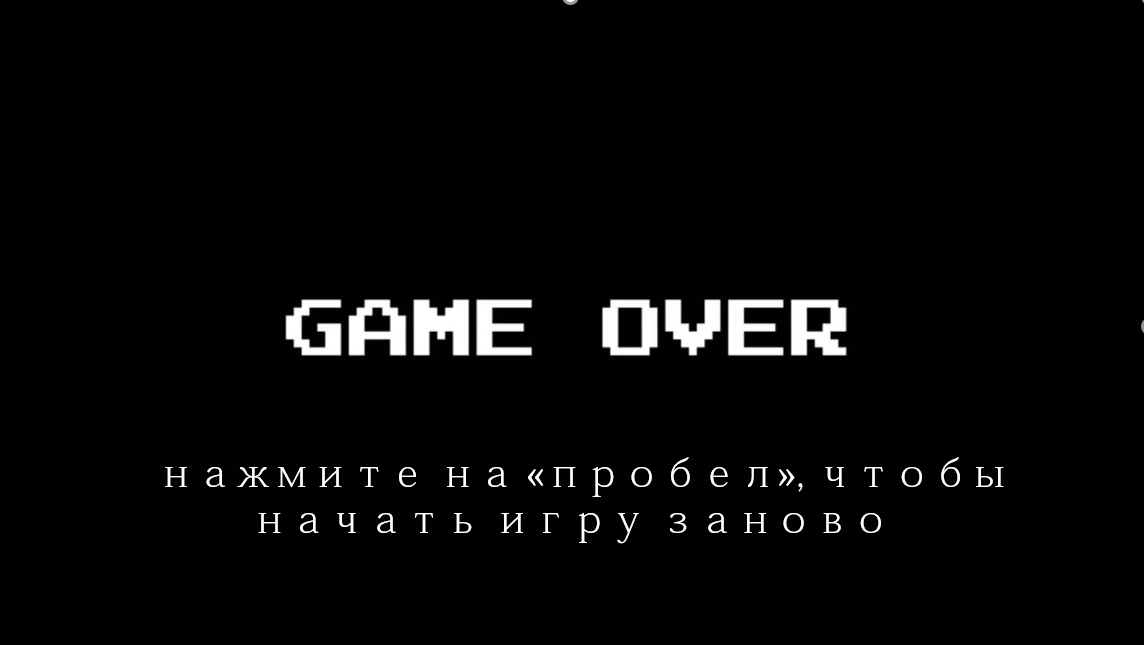
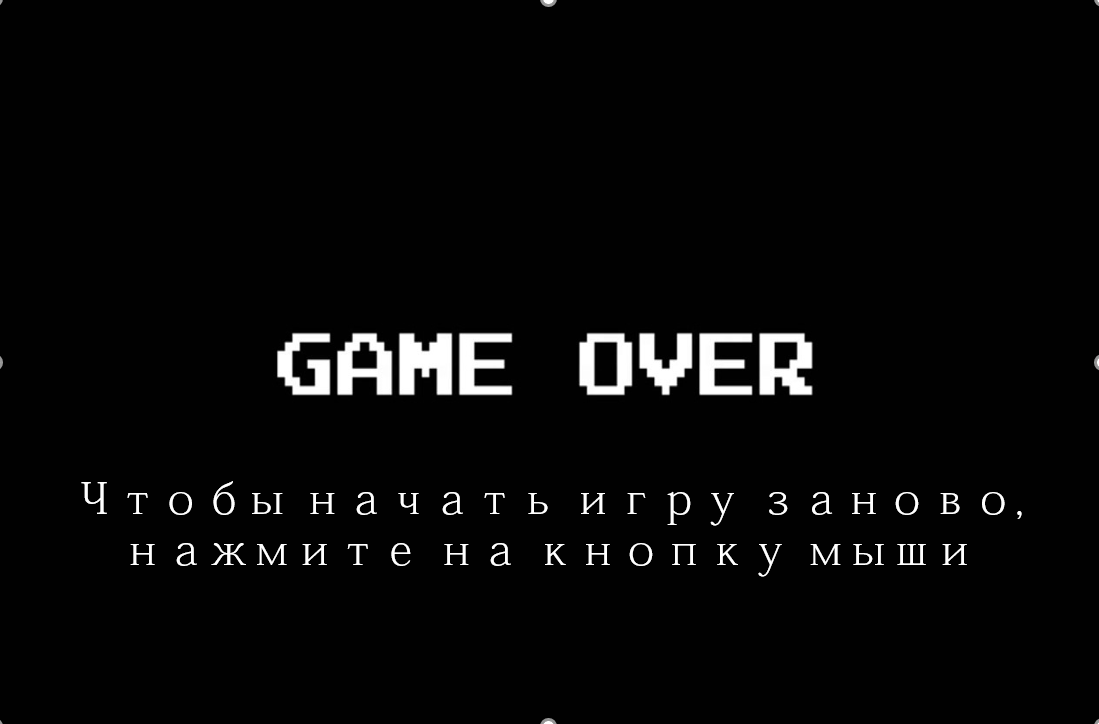
door

diff --git a/main.py b/main.py
@@ -4,21 +4,14 @@ import pygame
 import os
 import random
 
-from PyQt5.QtWidgets import QApplication, QPushButton, QMainWindow, \
-     QInputDialog, QLabel, QMessageBox
-from PyQt5 import QtGui  # для измениения шрифта
-from PyQt5.QtGui import QPixmap
-from PyQt5.QtWidgets import QPushButton, QApplication, QWidget, QInputDialog, QLabel
-from PyQt5 import QtGui
-from PyQt5.QtGui import QPixmap, QBrush, QPalette, QMovie, QPainter
 st = 0
 d = ['en.png', 'enn.png', 'ennn.png']
 pygame.init()
 pygame.key.set_repeat(200, 70)
 
 FPS = 50
-WIDTH = 800
-HEIGHT = 800
+WIDTH = 900
+HEIGHT = 900
 STEP = 10
 
 screen = pygame.display.set_mode((WIDTH, HEIGHT))
@@ -46,8 +39,6 @@ def load_image(name, color_key=None):
     else:
         image = image.convert_alpha()
     return image
-
-
 
 
 def over_game():
@@ -97,6 +88,8 @@ def generate_level(level):
                 Tile('star', x, y)
             elif level[y][x] == '!':
                 Tile('enemy', x, y)
+            elif level[y][x] == ')':
+                Tile('door', x, y)
     # вернем игрока, а также размер поля в клетках
     return new_player, x, y
 
@@ -105,8 +98,8 @@ def terminate():
     pygame.quit()
     sys.exit()
 
-tile_images = {'wall': load_image('box1.png'), 'empty': load_image('grass.png'), 'enemy': load_image(random.choice(d)), \
-               'star': load_image('star.png')}
+tile_images = {'wall': load_image('box1.png'), 'empty': load_image('grass.png'), \
+               'enemy': load_image(random.choice(d)),'door': load_image('door.png'), 'star': load_image('star.png')}
 player_image = load_image('mar2.png')
 
 tile_width = tile_height = 50
@@ -184,6 +177,24 @@ class Player(pygame.sprite.Sprite):
                     el.tile_type = 'empty'
             print(st)
 
+def over_game():
+    pygame.init()
+    size = 900, 800
+    screen = pygame.display.set_mode(size)
+    clock = pygame.time.Clock()
+    running = True
+    fon = pygame.transform.scale(load_image('game over.png'), (900, 800))
+    while running:
+        for event in pygame.event.get():
+            if event.type == pygame.QUIT:
+                running = False
+            if event.type == pygame.MOUSEBUTTONDOWN:
+                pass
+        screen.blit(fon, (0, 0))
+        clock.tick(8)
+        pygame.display.flip()
+
+
 
 o = ['map', 'map2', 'map3']
 player, level_x, level_y = generate_level(load_level(random.choice(o)))
@@ -240,6 +251,7 @@ class AnimatedSprite(pygame.sprite.Sprite):
 
 
 dragon = AnimatedSprite(load_image("enemy3.png"), 5, 2, 50, 50)
+dragon1 = AnimatedSprite(load_image("enemy3.png"), 5, 2, 300, 50)
 
 
 
@@ -291,6 +303,7 @@ while running:
     for sprite in all_sprites:
         camera.apply(sprite)
     dragon.update()
+    dragon1.update()
 
     screen.fill(pygame.Color(0, 0, 0))
     tiles_group.draw(screen)
